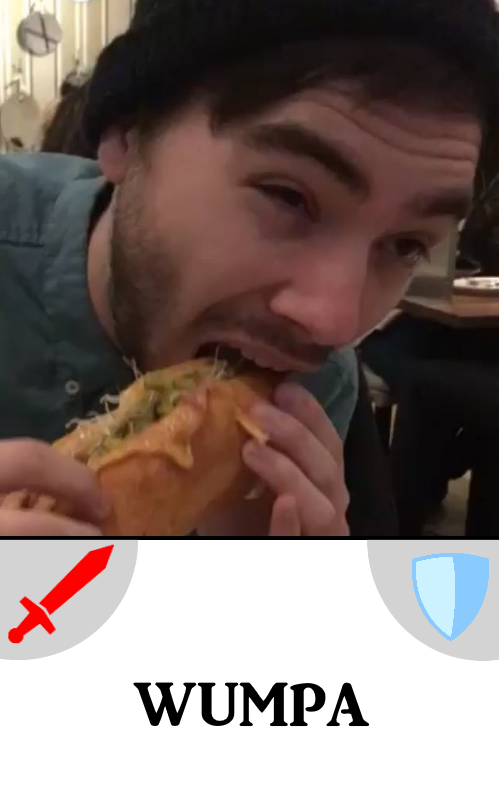
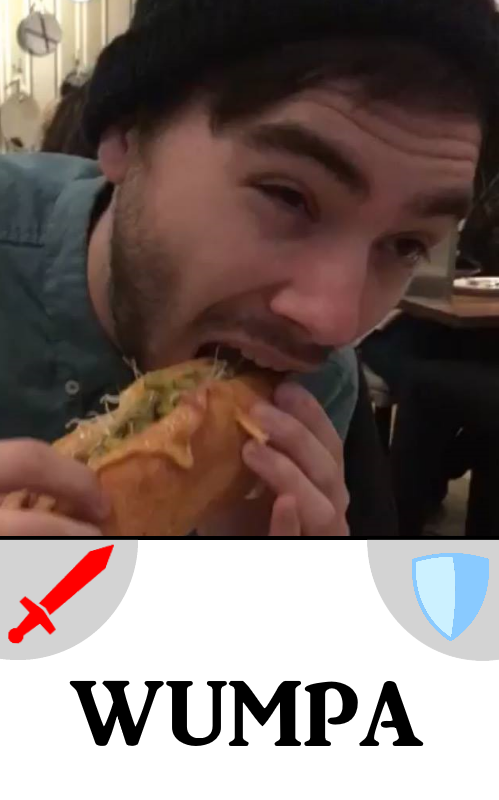
Added the rest of the cards

Changed region(s): [[0.1503, 0.8438, 0.8417, 0.9375]]

diff --git a/index.html b/index.html
@@ -152,10 +152,10 @@
           <ul class="list-unstyled" id="draggableCards">
             <li class="card"><img src="cards/YhprumText.png" name="Yhprum"></li>
             <li class="card"><img src="cards/KlinestifeText.png" name="Klinestife"></li>
-            <li class="card"><img src="cards/Jloysnenph.png" name="Jloysnenph"></li>
+            <li class="card"><img src="cards/JloysnenphText.png" name="Jloysnenph"></li>
             <li class="card"><img src="cards/MDaoText.png" name="MDao"></li>
             <li class="card"><img src="cards/SynchronText.png" name="Synchron"></li>
-            <li class="card"><img src="cards/Wumpa.png" name="Wumpa"></li>
+            <li class="card"><img src="cards/WumpaText.png" name="Wumpa"></li>
           </ul>
         </div>
       </div>
